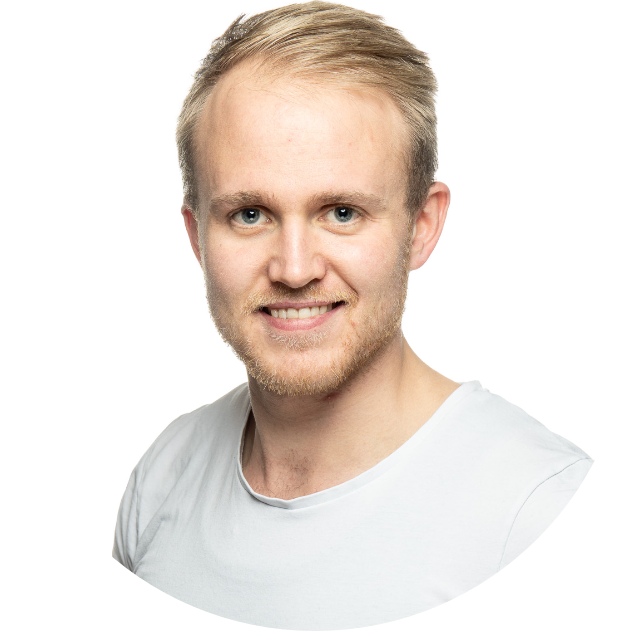
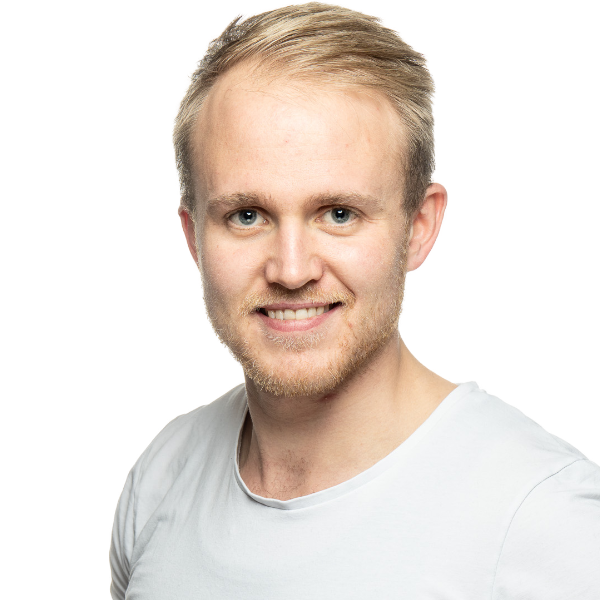
wip: add profile img

diff --git a/src/components/layout/profile/index.tsx b/src/components/layout/profile/index.tsx
@@ -1,25 +1,23 @@
-import imageUrl from "@/assets/images/profile_image.png";
+import ProfilePhoto from "@/components/ui/profilePhoto";
 import Socials from "@/components/ui/socials";
 
 function Profile() {
   return (
-    <article className="flex flex-col items-center">
-      <img
-        className="w-[300px] mb-5 mix-blend-lighten"
-        src={imageUrl}
-        alt="A photo of myself"
-      />
-      <h2 className="h4 text-center">Frontend Developer</h2>
-      <h1 className="h1 text-center">
-        Hallo ich bin <span className="text-tokyo-green">Manuel Proß</span>
-      </h1>
-      <p className="text-center">
-        Lorem ipsum, dolor sit amet consectetur adipisicing elit. Eius dicta
-        exercitationem, dolorum temporibus, enim magni, adipisci quia
-        necessitatibus magnam alias quod? Quas amet maxime at numquam vitae
-        ratione, alias voluptatibus.
-      </p>
-      <Socials />
+    <article className="flex flex-col items-center gap-6 xl:flex-row">
+      <div>
+        <h2 className="h4 text-center">Frontend Developer</h2>
+        <h1 className="h1 text-center">
+          Hallo ich bin <span className="text-tokyo-green">Manuel Proß</span>
+        </h1>
+        <p className="text-center">
+          Lorem ipsum, dolor sit amet consectetur adipisicing elit. Eius dicta
+          exercitationem, dolorum temporibus, enim magni, adipisci quia
+          necessitatibus magnam alias quod? Quas amet maxime at numquam vitae
+          ratione, alias voluptatibus.
+        </p>
+        <Socials />
+      </div>
+      <ProfilePhoto />
     </article>
   );
 }

diff --git a/src/components/ui/profilePhoto/index.tsx b/src/components/ui/profilePhoto/index.tsx
@@ -1,0 +1,15 @@
+import imageUrl from "@/assets/images/profile_image_circular.png";
+
+function ProfilePhoto() {
+  return (
+    <>
+      <img
+        className="w-[298px] h-auto xl:w-[498px] my-0 mx-auto"
+        src={imageUrl}
+        alt="A personal photo of Manuel Proß"
+      />
+    </>
+  );
+}
+
+export default ProfilePhoto;

diff --git a/src/components/layout/nav/mobile-nav/index.tsx b/src/components/layout/nav/mobile-nav/index.tsx
@@ -9,9 +9,6 @@ type MobileNavProps = {
 
 const MobileNav = ({ links }: MobileNavProps) => {
   const [isMenuOpen, setIsMenuOpen] = useState(false);
-  const handleBtnClick = () => {
-    console.log("click");
-  };
 
   const handleMenuChange = (isMenuOpen: boolean) => {
     setIsMenuOpen(!isMenuOpen);
